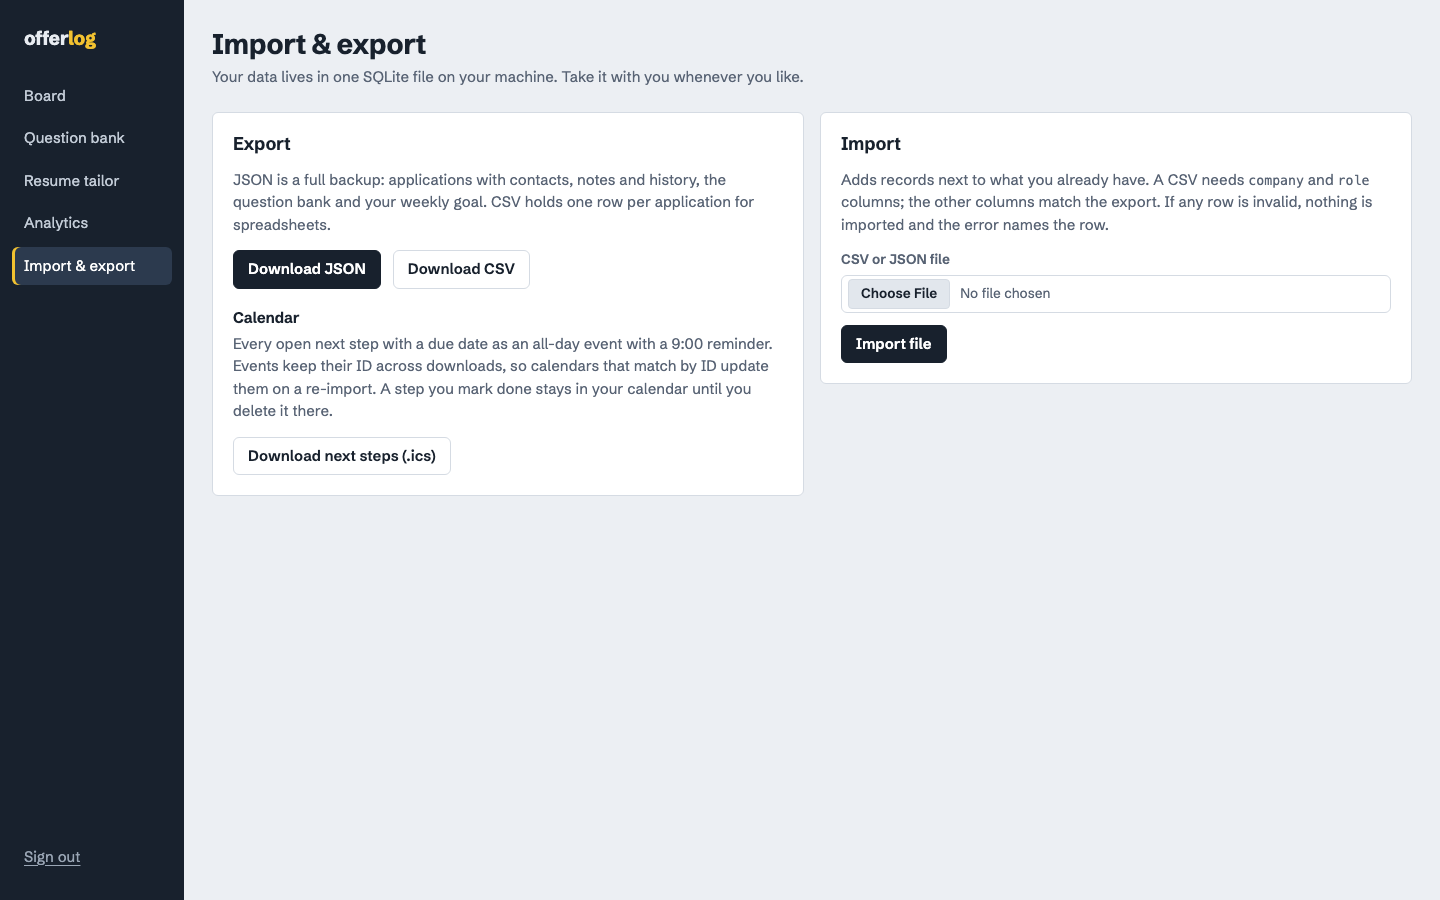
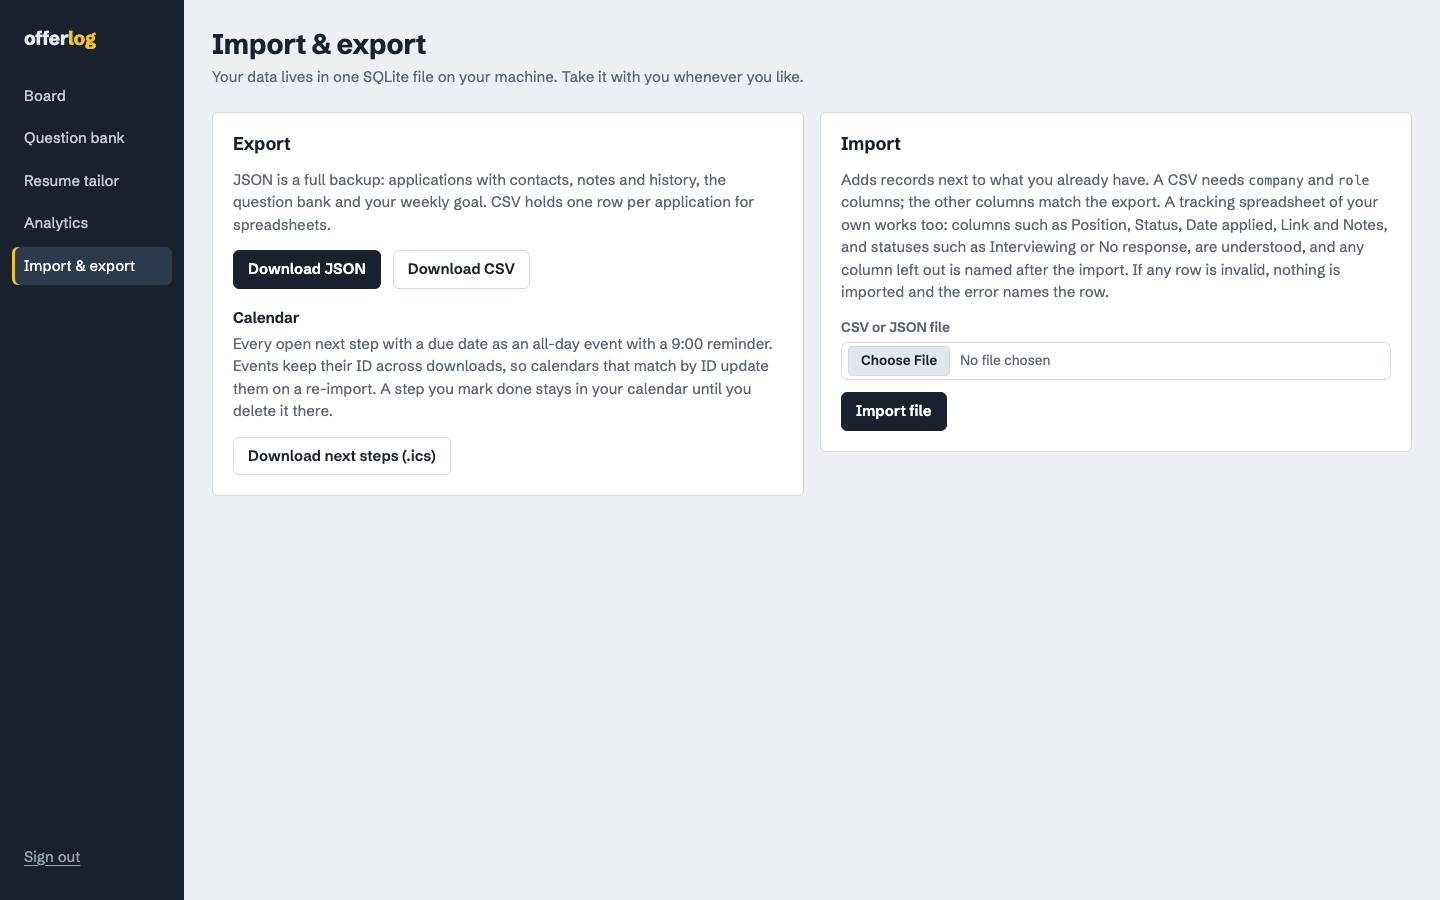
Docs: spreadsheet import in CHANGELOG; Import & export screenshot from the running app

Changed region(s): [[0.5625, 0.2178, 0.9688, 0.4978]]

diff --git a/CHANGELOG.md b/CHANGELOG.md
@@ -4,7 +4,28 @@ All notable changes to this project are documented here. The format follows [Kee
 
 ## [Unreleased]
 
-Latest, launch round. Most of the launch checklist (pitch, GIF, quickstart, comparison, roadmap, CONTRIBUTING, SECURITY, issue templates, repo description and topics) was already in place, so this round checked it against the running app instead of rewriting it.
+Latest, feature round: bring your spreadsheet. The target user almost always starts with a tracking sheet of their own, and the CSV import only read offerlog's own column names: a sheet with `Company Name, Position, Status, Date Applied, ...` was refused with "The CSV needs at least company and role columns" (reproduced in the running app), and a sheet that got past that was refused at the first `Interviewing` or `No response`. Unknown columns were dropped without a word.
+
+### Added
+
+- CSV import reads common spreadsheet column names (`CSV_ALIASES` in `src/lib/transfer.ts`): Company name, Employer, Position, Job title, Status, Link, Job URL, City, Work type, Found via, Next action, Due date, Date applied, Job description, Notes and a few more, compared ignoring case, spaces and punctuation. When two columns mean the same field, the first one wins.
+- Status words a sheet uses map to stages (`STAGE_WORDS`): Saved and Bookmarked to wishlist, Submitted to applied, Phone screen and Online assessment to screening, Interviewing and Final round to interview, Offer received to offer, Not selected to rejected, No response to ghosted, and others. Work modes On-site, In office and Fully remote are read too.
+- A Notes cell becomes a timeline note dated with the row's date applied, so an old application still shows as waiting on a reply instead of counting the note as news from today.
+- A due date may be written as a spreadsheet writes it (`11/30/2026`), like `created_at`; impossible dates are refused by row.
+- The import result names columns that were not imported (`Imported 4 applications. Not imported: the "Salary" column.`).
+
+### Changed
+
+- An unknown stage error lists the accepted stages. A note longer than 20,000 characters in a CSV names its row.
+- Import & export page text, README and `docs/screenshots/data.png` (from the running app) describe the spreadsheet import. The smoke test imports a sheet with its own headers and checks the message and the card.
+
+### Notes for the next agent
+
+- Not done: a free-text Salary column (`40k-45k`, `$90,000`, `DOE`) is named as not imported rather than parsed; parsing would need a currency guess for `$` and a rule for text like "Competitive". JSON import is unchanged (strict). No Huntr or Teal export formats were added: I had no real sample files, and guessing their columns would be dishonest.
+- Review: Codex was over its usage limit (until 09:32 local); `/code-review` picked another repository on this machine because the agent's working directory is not this repo, so the diff was reviewed by hand. That review dropped a `Follow up` alias (many sheets keep a date or "Yes" there) and added the due-date parsing.
+- Still open from earlier rounds: the 14-day follow-up threshold is a constant; the AI rewrite is only tested with a mocked client; the CSV byte order mark is not checked in Excel itself; the base image is not digest-pinned; the social preview needs a manual upload.
+
+Earlier, launch round. Most of the launch checklist (pitch, GIF, quickstart, comparison, roadmap, CONTRIBUTING, SECURITY, issue templates, repo description and topics) was already in place, so this round checked it against the running app instead of rewriting it.
 
 ### Changed
 
